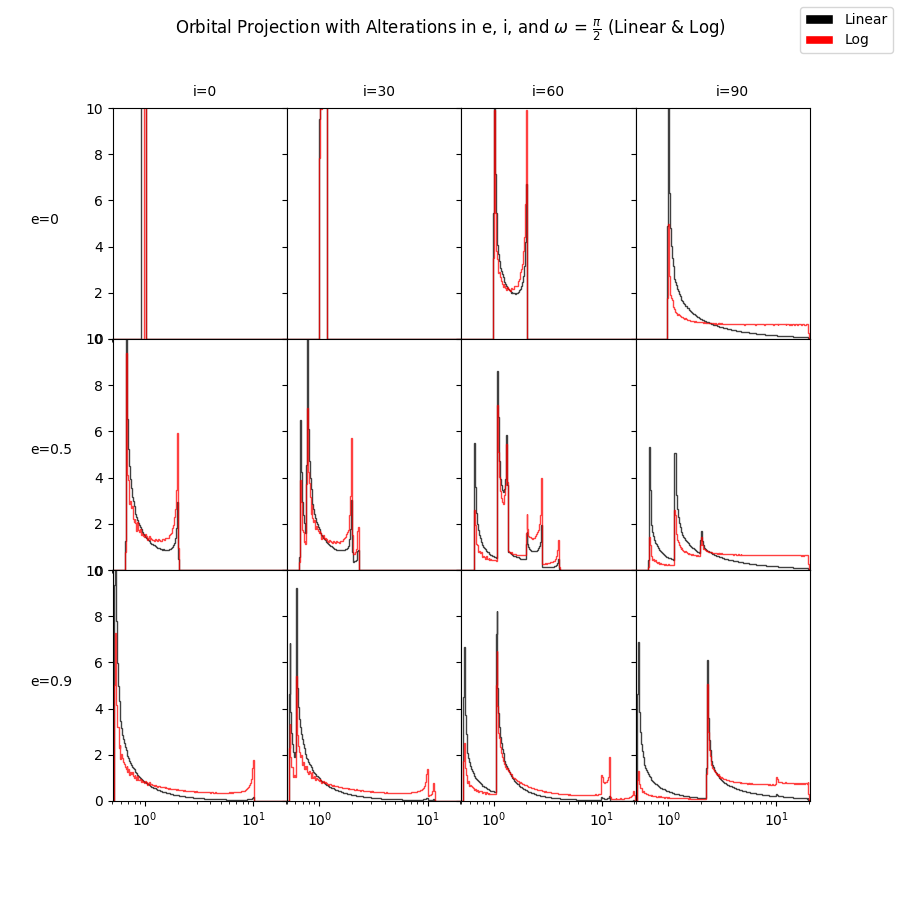
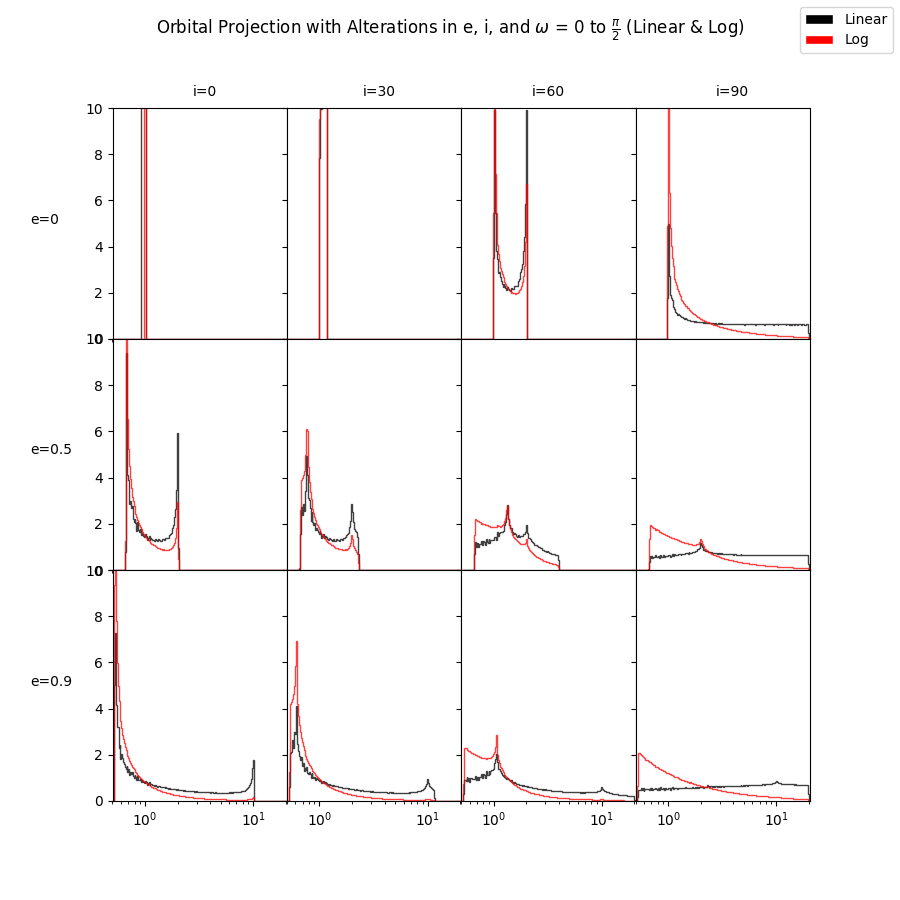
Commented for some values in Sep.py, added random example code in example.py, produced 0 to pi/2 plot from CompleteHist

diff --git a/Sep.py b/Sep.py
@@ -324,6 +324,7 @@ def DotSize(vel, velmax, velmin):
     ratio : array of floats <br>
         dot size proportional to velocity
     """
+    # Makes an empty array of the length of the vel array
     ratio = np.empty(len(vel))
     
     # for i in range(len(vel)):
@@ -339,10 +340,11 @@ def DotSize(vel, velmax, velmin):
     # num = np.subtract(np.log10(np.abs(vel)) , np.log10(np.abs(velmin)))
     # denom = np.subtract(np.log10(np.abs(velmax)) , np.log10(np.abs(velmin)))
     
+    # Numerator eq
     num = np.subtract(np.abs(vel) , np.abs(velmin))
-    
+    # Denominator eq
     denom = np.abs(velmax) - np.abs(velmin) 
-    
+    # Combined eq
     ratio =  (40.0 - (np.divide(num,denom)) * 39.0)
     
     return ratio
@@ -372,32 +374,41 @@ def Rchange(param, coords = False):
     """
     # rlistlog = [] 
     # rlistlin = []
-    
+    # By making this a dictionary, it vastly improves layout of counts of semimajor axis dots
     totlindict = {}
     totlogdict = {}
     
+    # Coordinate Lists
     xlist = []
     ylist = []
     r0 = 1 # Einstein Ring Radius
+    
+    # Has different parameter sets if conditions are met
     if coords == True:
         e, i, w, end, step, start = param
         Linear = True
     else:    
         e, i, w, end, step, Linear = param
     
+    # Only steps through Linear portion of points
     if Linear == True:
         stepthrough = np.arange(0.5, end + step, step)
         
+        # Goes through each value of a in the stepthrough
         for val in stepthrough:
             x, y, t = OrbGeoAlt(a = val, e = e, i = i ,w = w)
     
             r = np.sqrt(x**2+y**2)
 
             if coords == False:
+                # Whereever there is this value, it finds the indices of each point in the list
                 conlin = np.where(np.abs(r-r0)<=0.01)
+                # Has brackets with 0 b/c conlin is an array of length 1, to get to values u must flatten
                 totlindict[val] = len(conlin[0])
             else: 
                 # rlistlin.append(np.where(np.abs(r-r0)<=0.01, val, 0))
+                
+                # Same thing as coords == False but has coord lists for Multiplot
                 conlin = np.where(np.abs(r-r0)<=0.01)
                 totlindict[val] = len(conlin[0])
                 xlist.append(np.where(np.abs(r-r0)<=0.01, x, None))
@@ -407,7 +418,7 @@ def Rchange(param, coords = False):
         steps = np.linspace(0, 10000,10000)
         loga = np.log10(0.5) + steps/10000 * (np.log10(end)-np.log10(0.5))
         stepthrough = 10**loga 
-   
+        # ^ Stepthrough for log
         for val in stepthrough:
             x, y, t = OrbGeoAlt(a = val, e = e, i = i ,w = w)
     
@@ -440,10 +451,11 @@ def DataProj(w = 0, start = 0.5, end = 20, step = 0.5):
     """
     
     """
+    # List initialization
     listt = []
     totlist = []
     totparam = []
-    
+    # Parameter list for MultiPlot
     param = [
     # Row 1
     (0. , 0., w, end, step, start), (0., np.pi/6, w, end, step, start), (0., np.pi/3, w, end, step, start), (0., np.pi/2, w, end, step, start),
@@ -463,6 +475,7 @@ def DataProj(w = 0, start = 0.5, end = 20, step = 0.5):
     # Test source
     # totlist, totparam, listt = WorkProj(param[0])
     
+    # Splits the total result into different results
     for i in range(len(result)):
         totlist.append(result[i][0])
         totparam.append(result[i][1])
@@ -481,14 +494,16 @@ def WorkProj(param):
     listt = []
     paramlist = []
     
+    # Takes data from DataProj
     e, i, w, end, step, start = param
     
     stepthrough = np.arange(start, end + step, step)
     
-    
+    # For each value in the stepthrough, calculates orbit
     for val in stepthrough:
             x, y, t = OrbGeoAlt(a = val, e = e, i = i ,w = w)
             
+            # Appends results of orbital projection
             list1.append((x,y))
             # if val == 0 and e == 0 and i == 0:
             #     listt = []
@@ -499,7 +514,10 @@ def WorkProj(param):
 def DataHist(w = 0, step = 0.002, end = 10, Linearonly = True):
     """
     """
+    # Goes from both Linear and Log calculations to just Linear
     Linear = Linearonly
+    
+    # Parameters for Paralellization
     param = [
     # Row 1
     (0. , 0., w, end, step, Linear), (0., np.pi/6, w, end, step, Linear), (0., np.pi/3, w, end, step, Linear), (0., np.pi/2, w, end, step, Linear),
@@ -511,8 +529,8 @@ def DataHist(w = 0, step = 0.002, end = 10, Linearonly = True):
     ]
     
     start = time.perf_counter()
-    
-    with Pool(processes = 6) as pool:
+    # Multi Processing
+    with Pool(processes = 10) as pool:
         totlist = pool.map(Rchange, param)
     
     
@@ -566,14 +584,15 @@ def MultiPlotProj(w = 0, start = 0.5, end = 20, step = 0.5):
     
     # Initialize Lists
     listt = []
-    
     rlist = []
     
     # Data points being created for each plots
     # 3 for each section
+    
+    # Gets everything ready for multiprocessing of orbital projections
     list, totparam, listt = DataProj(w = w, start = start, end = end, step = step)
     
-    # # Initially Calculates the Velocity to place these into a list
+    # DEPRECATED
     # vlistmin = []
     # vlistmax = []
     # veltot = []
@@ -603,12 +622,14 @@ def MultiPlotProj(w = 0, start = 0.5, end = 20, step = 0.5):
     fig.suptitle("Orbital Projection with Alterations in e, i, and "r"$\omega$ = $\frac{\pi}{4}$")
     # Iterates through each subplot in the 3x3 figure
     for j, ax  in enumerate(axs.flatten()):
-        # Takes the first data clump in the list
-        # This contains three other data sets
+        # Takes the first data set in the list
+        # These contain 12 other data sets  
+        
         iterlist = list[j]
         g = 0
         param = totparam[j]
         
+        # Finds points <= 0.01 for each projection
         rtemp, xchange, ychange, rtemp_log = Rchange(param, coords = True)
         
         vel = Velocity(param)
@@ -807,20 +828,17 @@ def CompletePlotHist(w = 0, step = 0.002, end = 20):
     # totlinarray = [[] for _ in range(12)]
     # totlogarray = [[] for _ in range(12)]
     
-    nbin = 200
-    amin = 0.5
-    amax = 21
+    # Dictionary for storing Rchange results
     totlindict = [{} for _ in range(12)]
     totlogdict = [{} for _ in range(12)]
     
-    # totlinarray = np.array(totlinarray)
-    # totlogarray = np.array(totlogarray)
-    
-    
     colorlist = ["black", "red"]
-    wstep = np.linspace(0,np.pi/2,2)
+    # For making the stepthrough of omega
+    wstep = np.linspace(0,np.pi/2,100)
     for i in wstep:
+        # Each omega calculates its own data groups
         steptotlist, param = DataHist(w = i, step = step, end = end, Linearonly = False)
+        # Once complete, takes the data through each set
         for j in range(len(steptotlist)):
             # steplinlist, x, y, steploglist = steptotlist[j]
             steplindict, x, y, steplogdict = steptotlist[j]
@@ -829,9 +847,11 @@ def CompletePlotHist(w = 0, step = 0.002, end = 20):
             # flat_data_lin = np.concatenate([arr[arr != 0] for arr in steplinlist], axis = None)
             # flat_data_log = np.concatenate([arr[arr != 0] for arr in steploglist], axis = None)
             
+            # Adds new counts onto previous counts
             totliniter = dict(Counter(steplindict) + Counter(totliniter))
             totlogiter = dict(Counter(steplogdict) + Counter(totlogiter))
             
+            # Makes initializes new counts onto new dictionaries
             totlindict[j] = totliniter 
             totlogdict[j] = totlogiter
         gc.collect()
@@ -839,32 +859,17 @@ def CompletePlotHist(w = 0, step = 0.002, end = 20):
     totlinlist = [[] for _ in range(12)]
     totloglist = [[] for _ in range(12)]
     for j in range(12):
+        # Turns dictionaries into lists for easier processing
         totlinlist[j] = [key for key, val in totlindict[j].items() for _ in range(val)]
         totloglist[j] = [key for key, val in totlogdict[j].items() for _ in range(val)]
                 
-    # totlinarray = np.concat(totlinarray,iterlinarray)
-    # totlinarray = np.concat(totlogarray,iterlogarray)
     
-    #     for i in wstep:
-    # steptotlist, param = DataHist(w = i, step = step, end = end, Linearonly = False)
-    # for j in range(len(steptotlist)):
-    #     j = 0
-    #     steplinlist, x, y, steploglist = steptotlist[j]
-        
-    #     flat_data_lin = np.concatenate([arr[arr != 0] for arr in steploglist])
-    #     flat_data_log = np.concatenate([arr[arr != 0] for arr in steplinlist])
-    # if math.isclose(0,i) and j == 0:
-    #     totlinarray = np.copy(flat_data_lin)
-    #     totlogarray = np.copy(flat_data_log)
-    # else:
-    #     np.concatenate((totlinarray, flat_data_lin), axis = 1)
-    #     np.concatenate((totlogarray, flat_data_log), axis = 1)
-    # gc.collect()
     fig, axs = plt.subplots(3,4, figsize = (9,9), sharex=True,sharey=True,gridspec_kw=dict(hspace=0,wspace=0))               
     fig.suptitle("Orbital Projection with Alterations in e, i, and "r"$\omega$ = $0$ to $\frac{\pi}{2}$ (Linear & Log)")
     # Iterates through each subplot in the 3x4 figure
     
     for j, ax  in enumerate(axs.flatten()):
+        # Takes newly made lists for data collection
         iterlin = totlinlist[j]
         iterlog = totloglist[j]
         # Create variables for bin sizes
@@ -897,7 +902,7 @@ def CompletePlotHist(w = 0, step = 0.002, end = 20):
             stacked=True, histtype="step", alpha = 0.75, edgecolor = "red",
             weights=weights_log, fc = "none",
         )
-        
+        # Turns histogram bars into respective colors
         for patch in patches_lin:
             patch.set_edgecolor("k")
         for patch in patches_log:
@@ -906,7 +911,7 @@ def CompletePlotHist(w = 0, step = 0.002, end = 20):
         ax.set_ylim(0,10)
         ax.set_xscale("log")
     
-    
+    # Text for understanding positions of each figure 
     plt.text(1.25e-6,25,"e=0")
     plt.text(1.25e-6,15,"e=0.5")
     plt.text(1.25e-6,5,"e=0.9")
@@ -917,6 +922,7 @@ def CompletePlotHist(w = 0, step = 0.002, end = 20):
     handles = [patches.Rectangle((0,0),1,1,color = c, ec = "w") for c in colorlist]
     labels = ["Linear", "Log"]
     fig.legend(handles, labels)
+    # Saves plot
     plt.savefig('/College Projects/Microlensing Separation/Figures/CompleteHist_0002_LinLog.png')
     plt.show()
     return colorlist

diff --git a/example.py b/example.py
@@ -40,7 +40,7 @@
 # import matplotlib.pyplot as plt
 # import matplotlib.patches as patches
 import numpy as np
-
+from collections import Counter
 # # Example data (replace with your actual 'list')
 # n = 2
 # list = [
@@ -76,8 +76,20 @@ import numpy as np
 # # Create the legend using the patch objects and the captured line object
 # fig.legend([Circ1, Circ2, Circ3, line_handle], ["a = 0.5", "a = 1", "a = 1.5", "Observed Orbit"], loc='upper right')
 # plt.show()
-# logbins = np.linspace(0,np.pi/2,100)
-# print(logbins)
-a = np.empty((12,1))
-print(np.shape(a))
-print(a)
+# logbins = np.geomspace(0.5,20,200)
+# # print(logbins)
+# totlindict = {i: 0 for i in logbins}
+# print(totlindict)
+# arr1 = np.random.random(size= 20)
+# print(arr1)
+# val = 1
+# conloglist = np.where(np.isclose(val,arr1,atol= 0.1))
+# if np.any(conloglist[0]) == False:
+#     print(0)
+# else:
+#     print(len(conloglist[0]))
+dict1 = {1 : 15}
+dict2 = {}
+
+dict2 = Counter(dict1) + Counter(dict2)
+print(dict(dict2))
